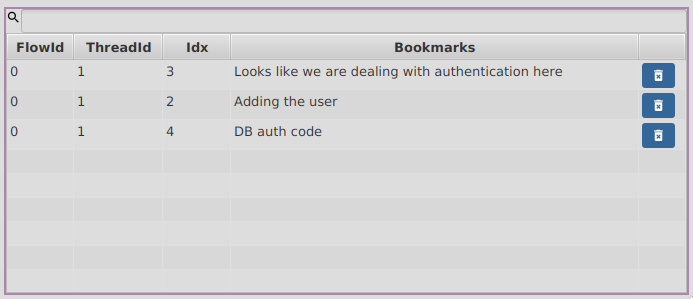
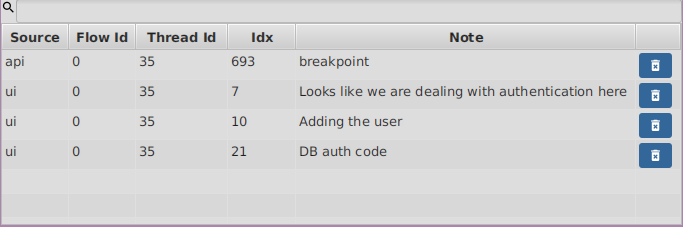
Add bookmarks documentation and make sure :note is always a string

diff --git a/docs/user_guide.html b/docs/user_guide.html
@@ -704,7 +704,12 @@ pre.rouge {
 </li>
 <li><a href="#_multi_thread_timeline">3.4. Multi-thread timeline</a></li>
 <li><a href="#_printer">3.5. Printer</a></li>
-<li><a href="#_bookmarks">3.6. Bookmarks</a></li>
+<li><a href="#_bookmarks">3.6. Bookmarks</a>
+<ul class="sectlevel3">
+<li><a href="#_code_bookmarks">3.6.1. Code bookmarks</a></li>
+<li><a href="#_ui_bookmarks">3.6.2. UI bookmarks</a></li>
+</ul>
+</li>
 </ul>
 </li>
 <li><a href="#_browser_tool">4. Browser tool</a></li>
@@ -2475,17 +2480,7 @@ sorted by thread and not in the order they happened.</p>
 <div class="sect2">
 <h3 id="_bookmarks"><a class="anchor" href="#_bookmarks"></a><a class="link" href="#_bookmarks">3.6. Bookmarks</a></h3>
 <div class="paragraph">
-<p>Bookmarks are useful when you find yourself jumping around, trying to understand a complex execution. They enable
-you to mark execution positions so you can come back to them later.</p>
-</div>
-<div class="imageblock">
-<div class="content">
-<img src="user_guide_images/bookmarks_add_btn.png" alt="bookmarks add btn">
-</div>
-</div>
-<div class="paragraph">
-<p>You can bookmark the current position by pressing the bookmark button in the code tool, next to your stepping controls.
-It will ask you the bookmark description.</p>
+<p>Bookmarks are another quick way of jumping around in code and they can be added from your code or the FlowStorm UI.</p>
 </div>
 <div class="paragraph">
 <p>You can find you bookmarks on the top menu <code>View &#8594; Bookmarks</code>.</p>
@@ -2497,6 +2492,48 @@ It will ask you the bookmark description.</p>
 </div>
 <div class="paragraph">
 <p>Double clicking on any bookmark will make the debugger jump back to its position.</p>
+</div>
+<div class="sect3">
+<h4 id="_code_bookmarks"><a class="anchor" href="#_code_bookmarks"></a><a class="link" href="#_code_bookmarks">3.6.1. Code bookmarks</a></h4>
+<div class="paragraph">
+<p>You add code bookmarks by adding the <code>(bookmark)</code> statement to your code, which optionally accepts a label.</p>
+</div>
+<div class="paragraph">
+<p>The first time a bookmark statement is executed it will make the FlowStorm UI jump to it. Since this behavior
+is similar to a <code>debugger</code> statement in languages like Javascript, it is also aliased as <code>(debugger)</code> so you can
+use whichever you prefer.</p>
+</div>
+<div class="admonitionblock note">
+<table>
+<tr>
+<td class="icon">
+<div class="title">Note</div>
+</td>
+<td class="content">
+<div class="title">ClojureScript support</div>
+<div class="paragraph">
+<p>This is currently only supported when using ClojureScriptStorm &gt;= 1.11.132-8</p>
+</div>
+</td>
+</tr>
+</table>
+</div>
+</div>
+<div class="sect3">
+<h4 id="_ui_bookmarks"><a class="anchor" href="#_ui_bookmarks"></a><a class="link" href="#_ui_bookmarks">3.6.2. UI bookmarks</a></h4>
+<div class="paragraph">
+<p>UI bookmarks are useful when you find yourself jumping around, trying to understand a complex execution. They enable
+you to mark execution positions so you can come back to them later.</p>
+</div>
+<div class="imageblock">
+<div class="content">
+<img src="user_guide_images/bookmarks_add_btn.png" alt="bookmarks add btn">
+</div>
+</div>
+<div class="paragraph">
+<p>You can bookmark the current position by pressing the bookmark button in the code tool, next to your stepping controls.
+It will ask you the bookmark description.</p>
+</div>
 </div>
 </div>
 </div>
@@ -4279,7 +4316,7 @@ which should open the file at that specific line (useful for long forms).</p>
 </div>
 <div id="footer">
 <div id="footer-text">
-Last updated 2024-12-05 09:59:51 -0300
+Last updated 2024-12-12 10:22:24 -0300
 </div>
 </div>
 </body>

diff --git a/CHANGELOG.md b/CHANGELOG.md
@@ -7,6 +7,7 @@
     - Add configurable auto jump to exceptions
     - New eql-query-pprint visualizer
     - Add support for setting the visualizer via flow-storm.api/data-window-push-val
+    - Add debugger/bookmark to set bookmarks from code and also quickly jump to the first one
     
 ### Changes
 
